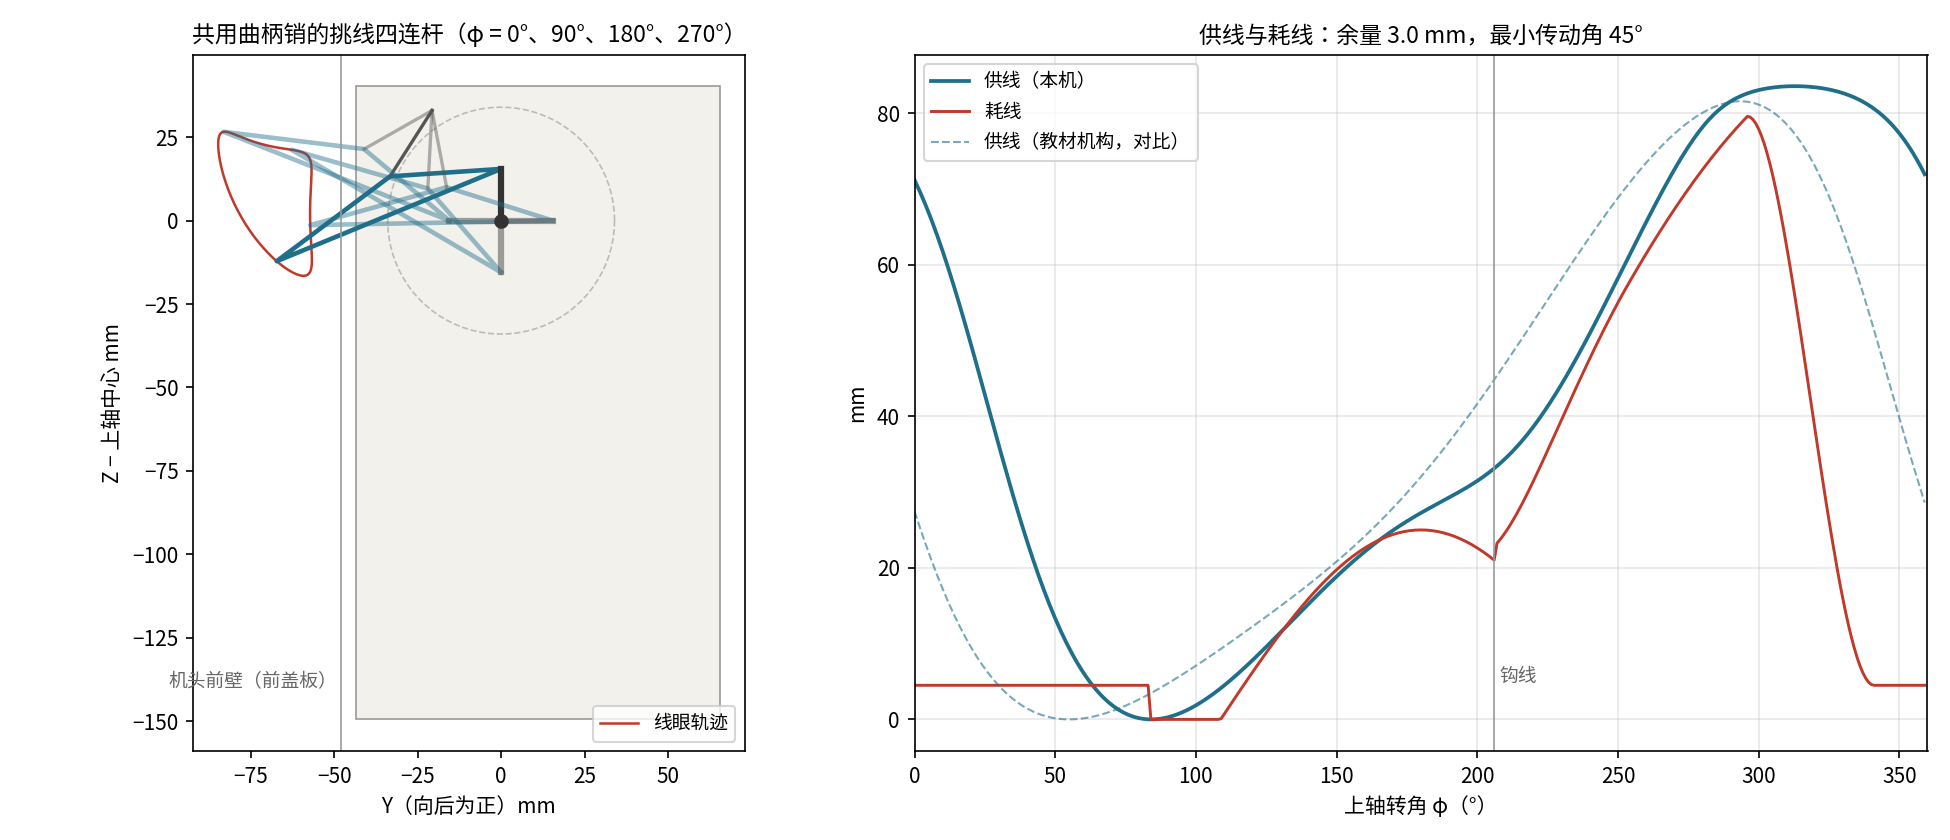
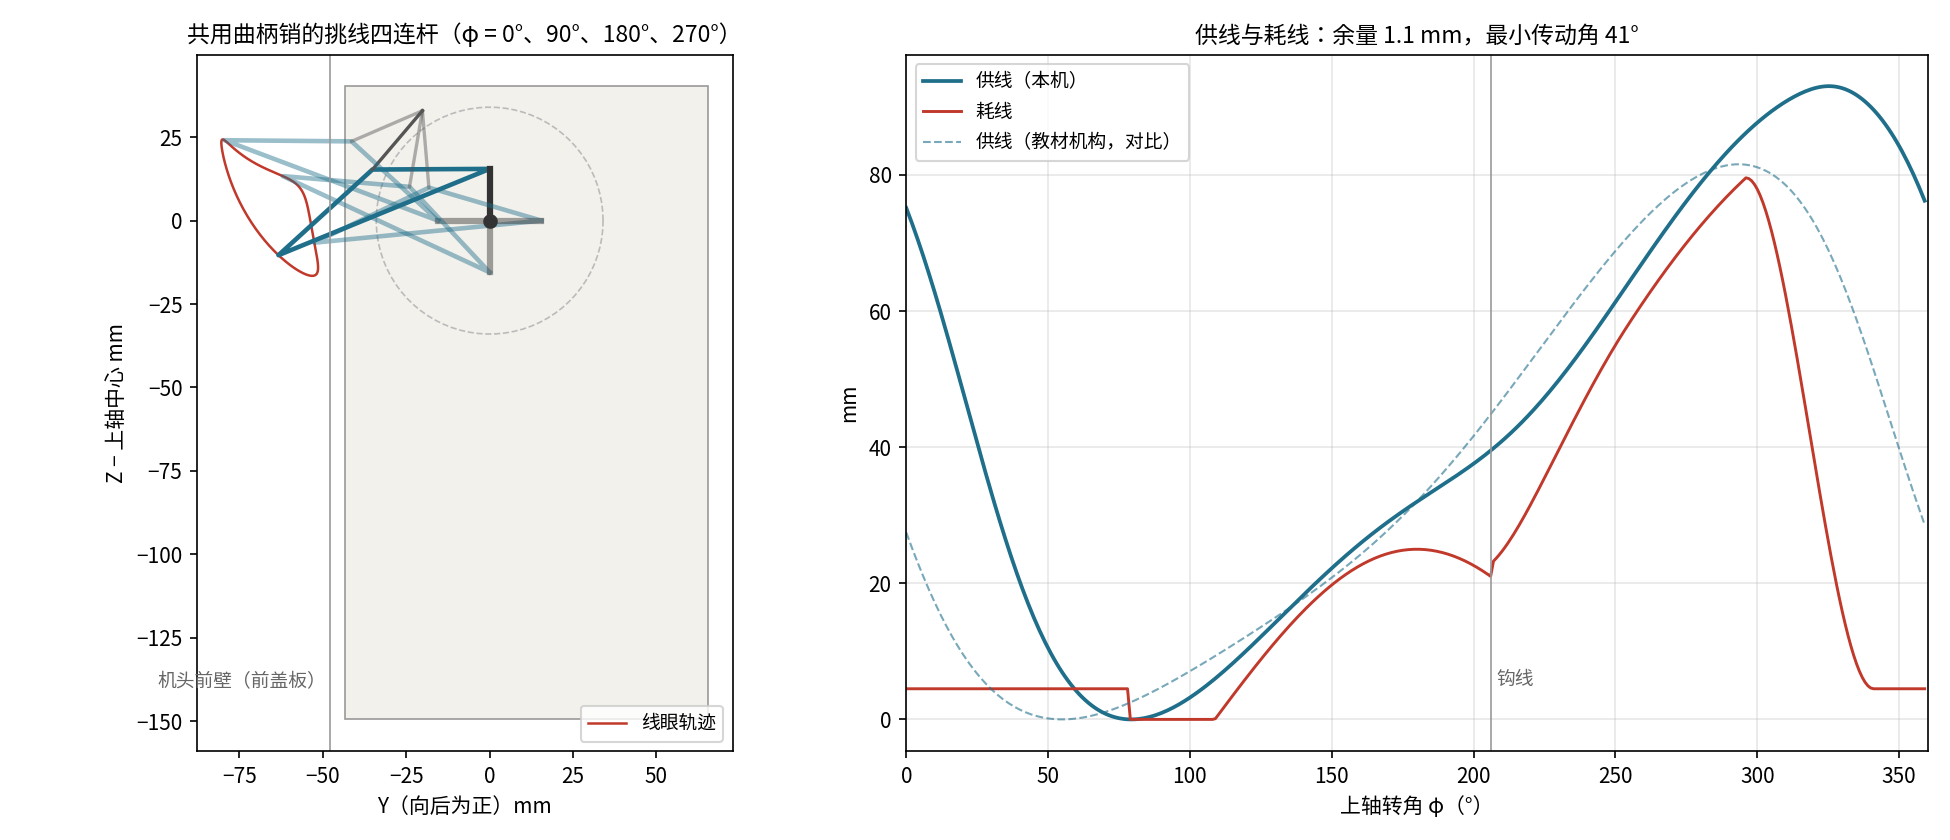
G8.1: new take-up linkage (3D thread path, 0.4/1.5/3.0 mm fabric, mu 40.5-135.5)
Claude-Session: https://claude.ai/code/session_01NKjsqWvDSpVGBBfSfcC778

diff --git a/tools/wqls/g4_mech.py b/tools/wqls/g4_mech.py
@@ -210,10 +210,11 @@ def frames(step=2, nd=5):
         # 过线点 B 之后：机头前面下沿的过线环（z 44，cad/ctrl.py 的 thread_guide）→ 针夹上的线钩 → 顺着机针前面的长槽到针眼
         # G8.1 第三步：过线点 B 放在挑线杆线眼的平面上（x 21.5），A 紧贴挑线杆右侧（杆 x 17.5…25.5，A 在 x 28.5，让开 3）。
         # 原来 A 在 x 40、B 在 x 0，三维线长里多了 x 方向的固定斜边，挑线量比 G4 端视综合的少 10 mm（83.6 → 73.4），余量变负；
-        # A 也放到 21.5 时，挑线簧 → A 那段线在 φ 0 穿过挑线杆，所以 A 让到杆外（挑线量 81.9）
-        xe = X["lever"][0] + X["lever"][1] / 2
-        xa = X["lever"][0] + X["lever"][1] + 3.0
-        thread = TENSION_PATH + [[xa, Ay, Az], [xe, Ey, Ez], [xe, By, Bz], [0.0, -51.0, 44.0],
+        # A 也放到 21.5 时，挑线簧 → A 那段线在 φ 0 穿过挑线杆，所以 A 让到杆外。四连杆按这条三维线路重新综合（g81_takeup.py），位置写在挑线机构.json
+        xe = TK.get("xE", X["lever"][0] + X["lever"][1] / 2)
+        xa = TK.get("xA", X["lever"][0] + X["lever"][1] + 3.0)
+        xb = TK.get("xB", xe)
+        thread = TENSION_PATH + [[xa, Ay, Az], [xe, Ey, Ez], [xb, By, Bz], [0.0, -51.0, 44.0],
                                  [0.0, -6.0, nb_bot + 0.3], [0.0, -0.75, nb_bot - 3.0], [0.0, -0.3, tip + 2.8]]
         own = (["tension", "tension", "check_spring"] if TENSION_PATH else []) + ["A", "lever", "B", "thread_guide", "needle_clamp", "needle", "needle"]
         out.append(dict(phi=phi_, M={k: [(round(v, nd) if nd else float(v)) for v in m.flatten()] for k, m in M.items()}, thread=thread, thread_own=own,
